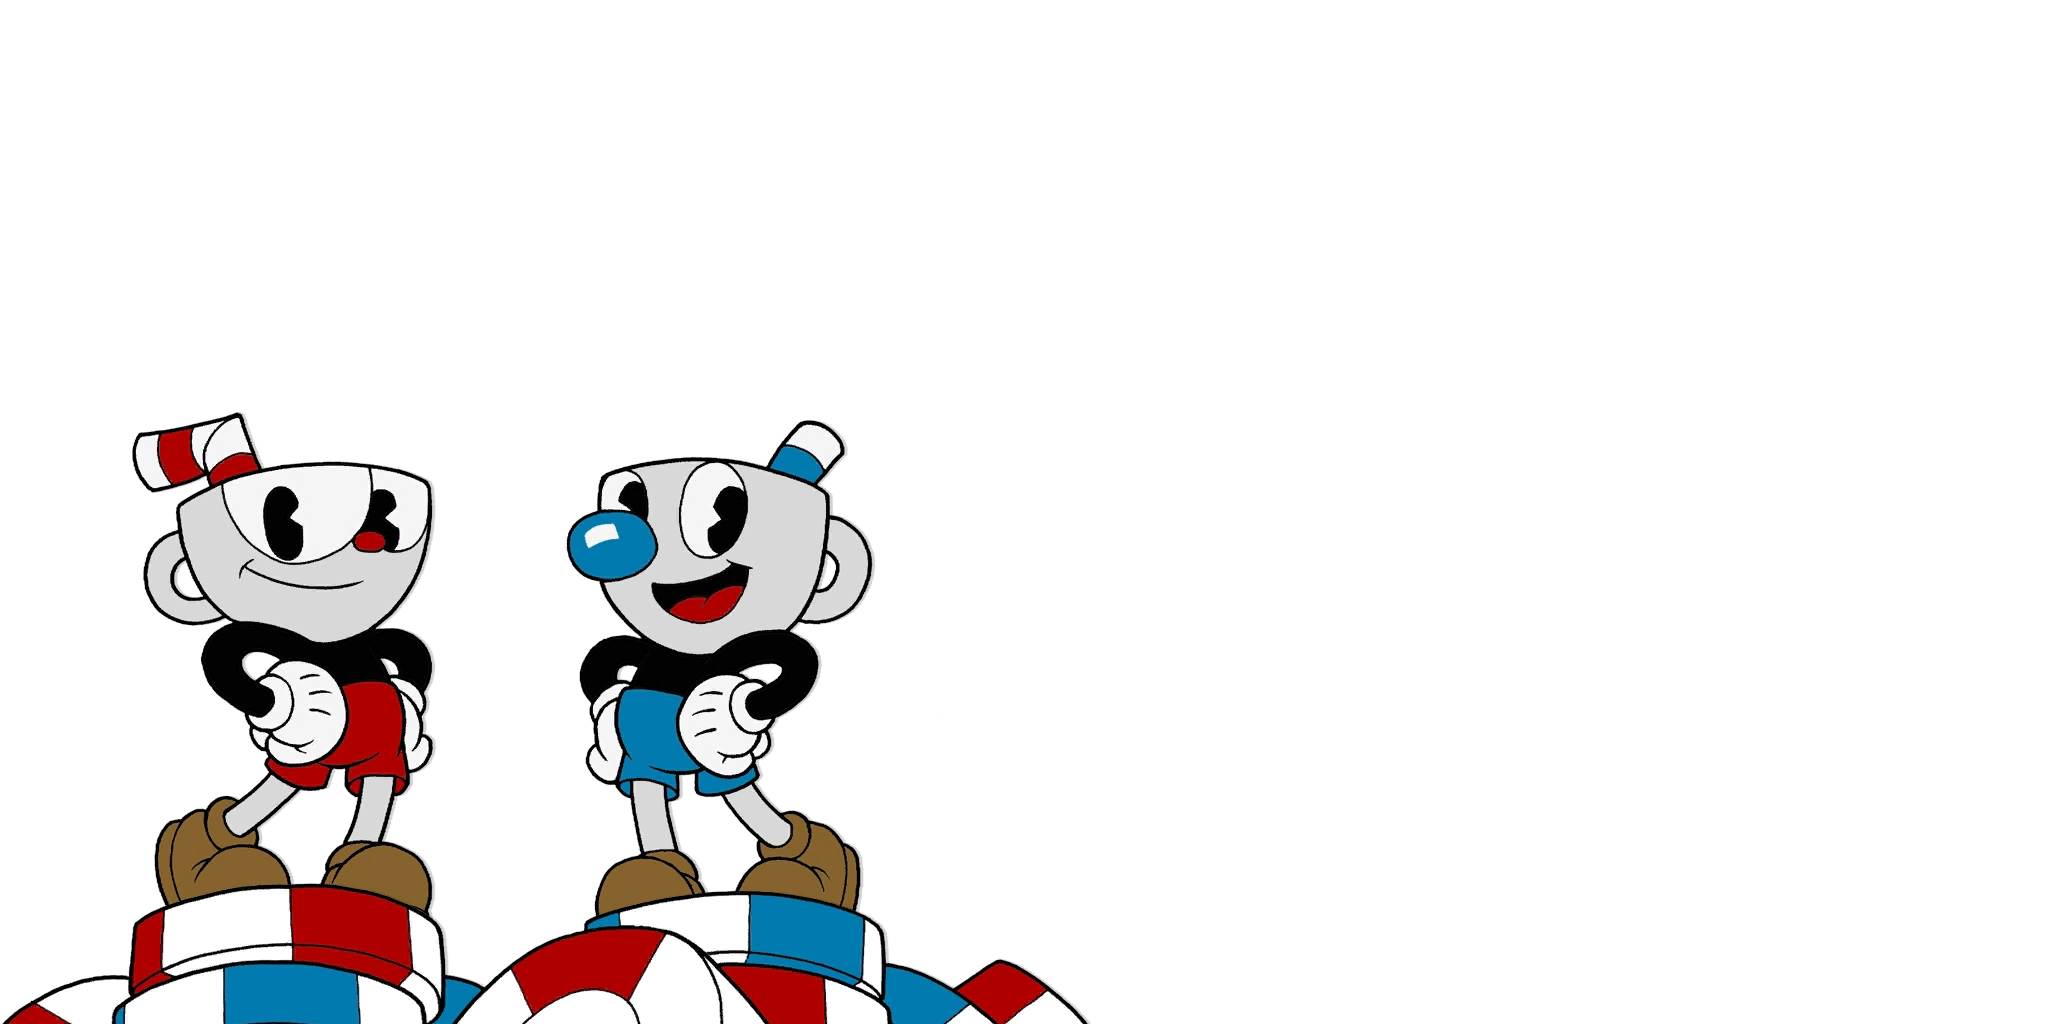
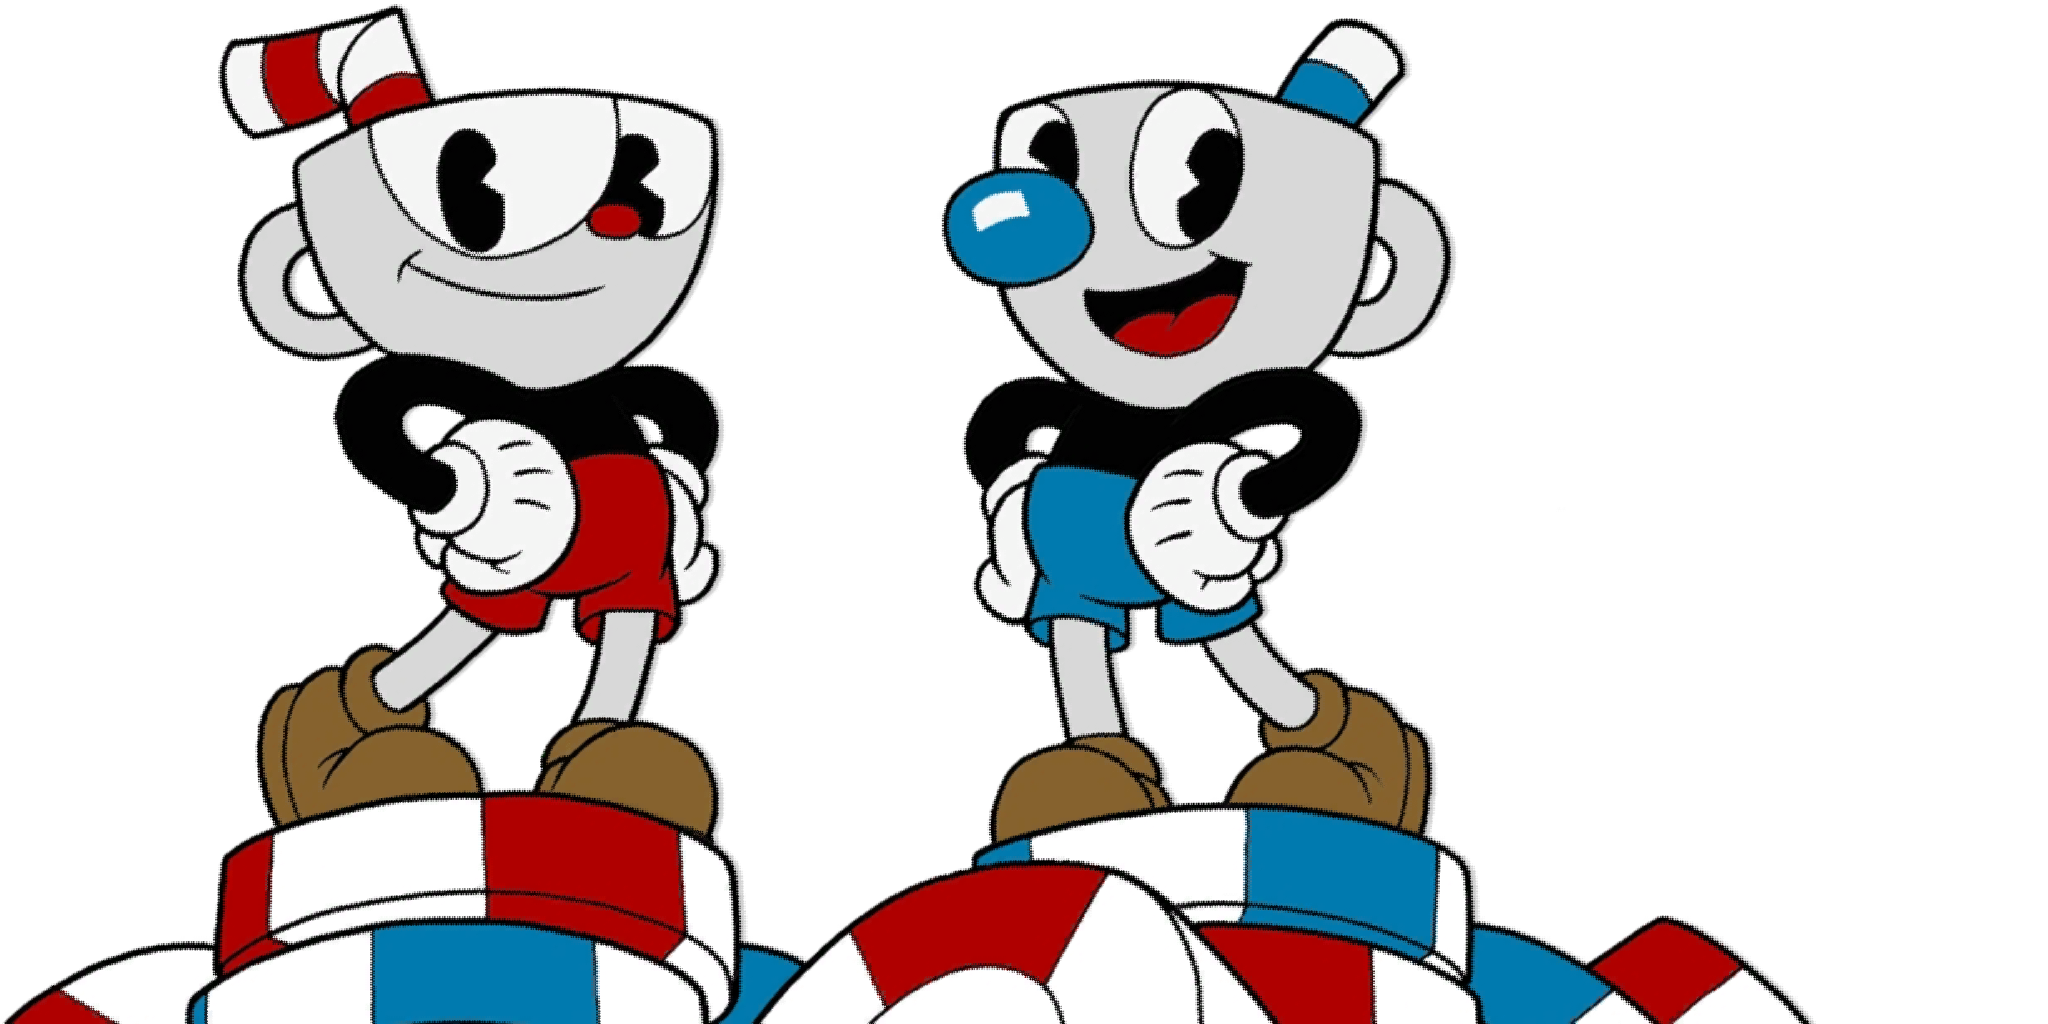
menu check point

diff --git a/Sprint0/Sprint0/Controllers/MenuController.cs b/Sprint0/Sprint0/Controllers/MenuController.cs
@@ -13,7 +13,6 @@ namespace Cuphead.Controllers
     internal class MenuController : IComponent
     {
         private readonly MouseController mouseController;
-        private readonly GameTime gameTime;
         private PlayerState playerState;
         private readonly TextSprite textSprite;
         
@@ -39,17 +38,16 @@ namespace Cuphead.Controllers
         public GameObject GameObject { get; set; }
         public bool enabled { get; set; }
 
-        public MenuController(GameTime gameTime, MouseController mouseController,PlayerState player, TextSprite textSprite)
+        public MenuController(PlayerState player, TextSprite textSprite)
         {
-            this.mouseController = mouseController;
-            this.gameTime = gameTime;
+            mouseController = new MouseController();
             this.playerState = player;
             this.textSprite = textSprite;
 
-            this.loadstart = new LoadStart();
+            this.loadstart = new LoadStart(player);
             this.loadpaused = new LoadPaused();
             this.loaddeath = new LoadDeath();
-            this.loadend = new LoadEnd(gameTime, player, textSprite);
+            this.loadend = new LoadEnd(player, textSprite);
 
             screen = screens.start;
 
@@ -65,7 +63,7 @@ namespace Cuphead.Controllers
 
         }
 
-        private void loadScreen()
+        private void loadScreen(GameTime gameTime)
         {
             switch (screen)
             {
@@ -80,7 +78,7 @@ namespace Cuphead.Controllers
                 case screens.death:
                     break;
                 case screens.end:
-                    loadend.loadScreen();
+                    loadend.loadScreen(gameTime);
                     break;
                 default:
                     break;

diff --git a/Sprint0/Sprint0/Level/MenuFactory.cs b/Sprint0/Sprint0/Level/MenuFactory.cs
@@ -9,11 +9,19 @@ public static class MenuFactory
     private static Dictionary<string, (int width, int height, float orderInLayer, int frameAmount)> Sizes = new Dictionary<string, (int width, int height, float orderInLayer, int frameAmount)>()
     {
         //start screen
-        
+        //cuphead
+        { "Title1", (1827, 1021, 0.099f, 1) },
+
+        //background
+        { "Title2", (1825, 1022, 0.1f, 1) },
+
         //pause screen
-        
+
+
         //death screen
         { "DeathMessage", (500, 546, 0.91f, 1) },
+        { "LossScreen", (554, 632, 0.91f, 1) },
+        { "LossScreenIcon", (92, 81, 0.91f, 1) },
 
         //ending screen
         { "WinScreenBackground", (1580, 1493, 0.1f, 1) },
@@ -21,18 +29,18 @@ public static class MenuFactory
         { "WinScreenResultsText", (800, 150, 0.098f, 3) },
         { "WinScreenCuphead", (450, 450, 0.097f, 12) },
         { "WinScreenUnearnedStar", (27, 27, 0.096f, 1) },
-        { "WinScreenStarAppearAnimation", (50, 50, 0.095f, 8) },
+        { "WinScreenStarAppearAnimation", (50, 50, 0.095f, 8) }, 
         { "WinScreenLine", (358, 3, 0.094f, 1) },
         { "WinScreenStar", (27, 27, 0.093f, 1) },
         { "WinScreenCircle", (90, 90, 0.092f, 12) },
 
         //transition 
-        
+        { "FadeIn", (511, 287, 0.05f, 1) },
+        { "FadeOut", (511, 287, 0.05f, 1) },
+
         //need to adjust width and height
-        { "FadeIn", (1580, 1493, 0.1f, 1) },
-        { "FadeOut", (1580, 1493, 0.1f, 1) },
-        { "LossScreen", (500, 546, 0.91f, 1) },
-        { "LossScreenIcon", (500, 546, 0.91f, 1) },
+
+
     };
 
     public static GameObject CreateElement(string subtype, Vector2 position)

diff --git a/Sprint0/Sprint0/Game1.cs b/Sprint0/Sprint0/Game1.cs
@@ -38,6 +38,7 @@ namespace Sprint0
         private Vector2 startingPlayerLoc = new Vector2(0, 500);
         private bool saveLoc = false;
         internal PlayerState playerState;
+        private MenuController menuController;
         private UI UI;
 
         string basePath;
@@ -47,7 +48,6 @@ namespace Sprint0
 
         private bool resetFrame;
         private bool endGame = false;
-        private bool paused = true;
 
         public Game1()
         {
@@ -145,6 +145,7 @@ namespace Sprint0
             audioStorage.LoadContent(Content);
             audioStorage.loadAudioManager(audioManager);
 
+            //load player stuff
             SpriteRenderer playerSpriteRenderer = new SpriteRenderer(new Rectangle(player.X, player.Y, 144, 144), true);
             playerSpriteRenderer.orderInLayer = .1f;
             textureStorage.loadPlayerAnimations(playerSpriteRenderer);
@@ -155,6 +156,8 @@ namespace Sprint0
             player.AddComponent(new PlayerController2(playerState));
             ScoreComponent playerScore = new ScoreComponent();
             player.AddComponent(playerScore);
+
+            menuController = new MenuController(playerState, texts);
 
             Texture2D hp3Texture = textureStorage.GetTexture("hp3");
             Texture2D hp2Texture = textureStorage.GetTexture("hp2");
@@ -178,7 +181,7 @@ namespace Sprint0
         }
 
         protected override void Update(GameTime gameTime)
-        {
+        {      
             for (int i = 0; i < gameObjects.Count; i++)
             {
                 GameObject gameObject = gameObjects[i];

diff --git a/Sprint0/Sprint0/Menu/LoadStart.cs b/Sprint0/Sprint0/Menu/LoadStart.cs
@@ -1,4 +1,7 @@
-using System;
+using Cuphead.Player;
+using Microsoft.Xna.Framework;
+using MonoGame.Extended.Input;
+using System;
 using System.Collections.Generic;
 using System.Linq;
 using System.Text;
@@ -8,5 +11,35 @@ namespace Cuphead.Menu
 {
     internal class LoadStart
     {
+
+        private PlayerState player;
+
+        int offsetx;
+        int offsety;
+
+        public LoadStart(PlayerState player)
+        {
+            this.player = player;
+        }
+
+
+        private void getOffset()
+        {
+            offsetx = player.GameObject.X;
+            offsety = player.GameObject.Y;
+        }
+
+        private void addelement(string obj, Vector2 pos)
+        {
+            pos.X = pos.X + offsetx;
+            pos.Y = pos.Y + offsety;
+            GOManager.Instance.allGOs.Add(MenuFactory.CreateElement(obj, pos));
+        }
+
+        public void loadScreen()
+        {
+            addelement("Title1", new Vector2(0, 0));
+            addelement("Title2", new Vector2 (0, 0));
+        }
     }
 }

diff --git a/Sprint0/Sprint0/Menu/LoadEnd.cs b/Sprint0/Sprint0/Menu/LoadEnd.cs
@@ -16,7 +16,6 @@ namespace Cuphead.Menu
     {
         private PlayerState player;
         private TextSprite textSprite;
-        private GameTime gameTime;
 
         int offsetx;
         int offsety;
@@ -31,11 +30,10 @@ namespace Cuphead.Menu
         String disGrade;
 
 
-        public LoadEnd(GameTime time, PlayerState playerState, TextSprite text)
+        public LoadEnd(PlayerState playerState, TextSprite text)
         { 
             this.player = playerState;
             this.textSprite = text;
-            this.gameTime = time;
         }
 
         private void getTime(GameTime time)
@@ -100,7 +98,7 @@ namespace Cuphead.Menu
             }
         }
 
-        public void loadScreen()
+        public void loadScreen(GameTime gameTime)
         {
 
             getHealth();

diff --git a/Sprint0/Sprint0/Texture2DStorage.cs b/Sprint0/Sprint0/Texture2DStorage.cs
@@ -111,7 +111,7 @@ public class Texture2DStorage
 
         //Title Screen
         _textures["Title1"] = content.Load<Texture2D>(@"TitleScreen\title-1");
-        _textures["Title1"] = content.Load<Texture2D>(@"TitleScreen\title-2");
+        _textures["Title2"] = content.Load<Texture2D>(@"TitleScreen\title-2");
 
         //Game Start
         _textures["GameStartText"] = content.Load<Texture2D>(@"GameStart\game-start-text-animation");

diff --git a/Sprint0/Sprint0/Menu/LoadTransition.cs b/Sprint0/Sprint0/Menu/LoadTransition.cs
@@ -1,0 +1,13 @@
+using System;
+using System.Collections.Generic;
+using System.Linq;
+using System.Text;
+using System.Threading.Tasks;
+
+namespace Cuphead.Menu
+{
+    internal class LoadTransition
+    {
+        public LoadTransition() { }
+    }
+}
